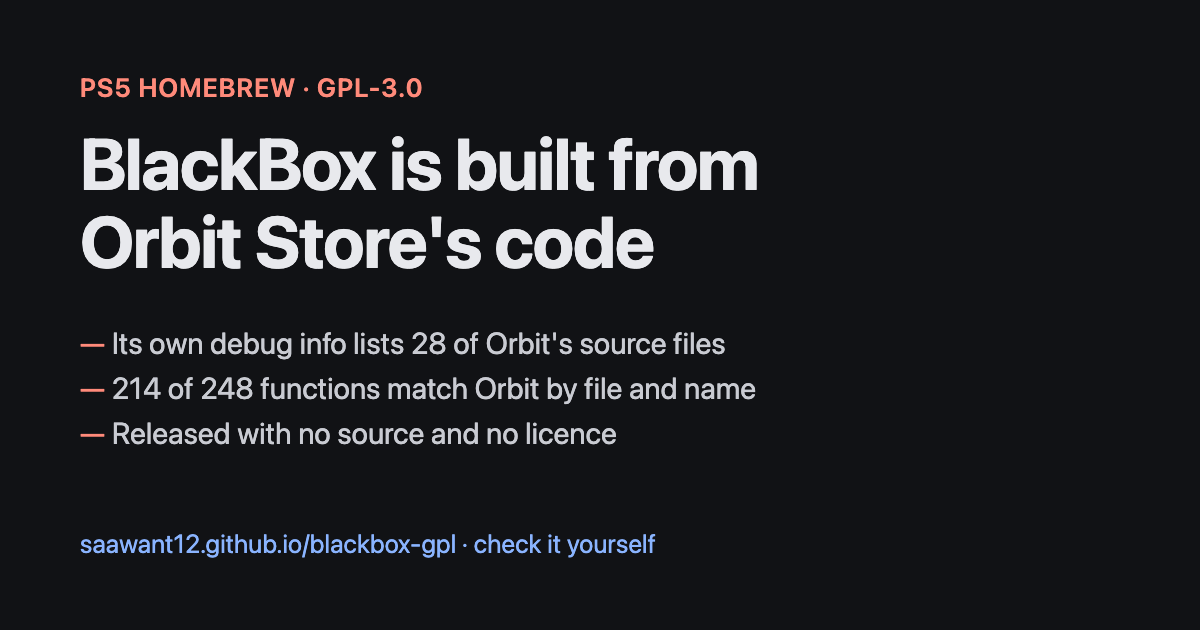
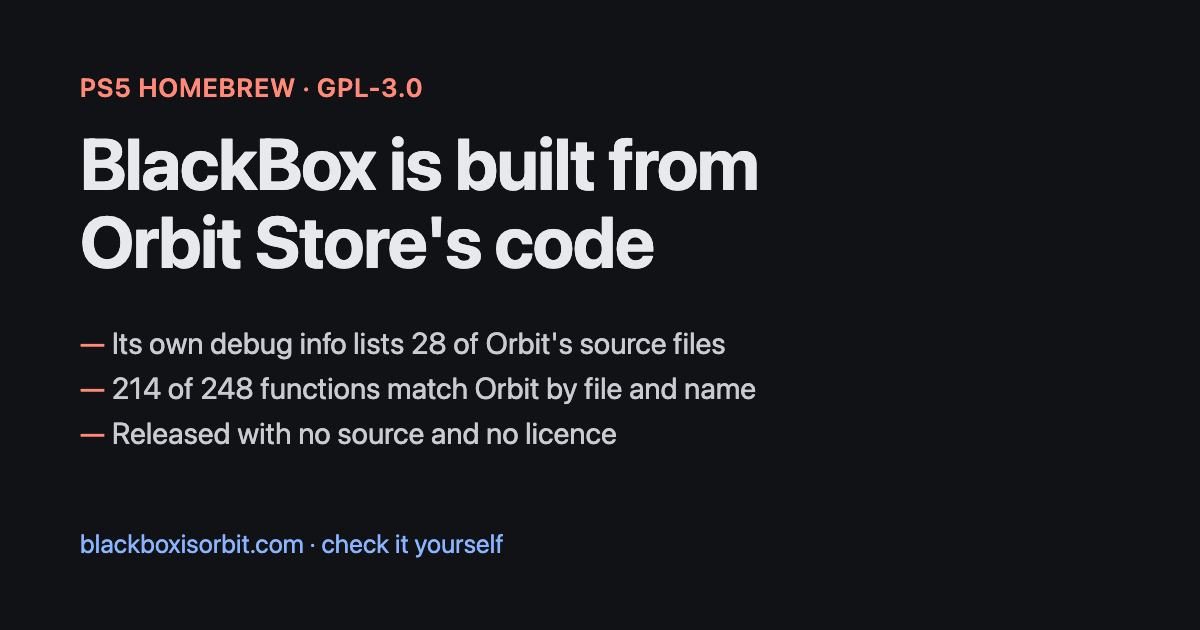
Move the page to its own domain
Adds the CNAME for GitHub Pages and points the canonical link, share
card, structured data, sitemap and llms.txt at the new domain.

Changed region(s): [[0.0617, 0.8444, 0.555, 0.9048]]

diff --git a/index.html b/index.html
@@ -7,7 +7,7 @@
 <meta name="description" content="BlackBox's PS5 payload is compiled from Orbit Store's GPL source code and released without source, licence or credit. Evidence anyone can reproduce from the public release files.">
 <meta name="robots" content="index, follow, max-image-preview:large">
 <meta name="theme-color" content="#111215">
-<link rel="canonical" href="https://saawant12.github.io/blackbox-gpl/">
+<link rel="canonical" href="https://blackboxisorbit.com/">
 <link rel="icon" href="favicon.svg" type="image/svg+xml">
 <link rel="apple-touch-icon" href="apple-touch-icon.png">
 <link rel="sitemap" type="application/xml" href="sitemap.xml">
@@ -16,8 +16,8 @@
 <meta property="og:site_name" content="Orbit Store">
 <meta property="og:title" content="BlackBox is built from Orbit Store's code">
 <meta property="og:description" content="BlackBox's own debug information lists 28 of Orbit Store's source files. It is released without source, licence or credit. Check it yourself.">
-<meta property="og:url" content="https://saawant12.github.io/blackbox-gpl/">
-<meta property="og:image" content="https://saawant12.github.io/blackbox-gpl/social.png">
+<meta property="og:url" content="https://blackboxisorbit.com/">
+<meta property="og:image" content="https://blackboxisorbit.com/social.png">
 <meta property="og:image:width" content="1200">
 <meta property="og:image:height" content="630">
 <meta property="og:image:alt" content="BlackBox is built from Orbit Store's code: its own debug info lists 28 of Orbit's source files, 214 of 248 functions match Orbit by file and name, released with no source and no licence.">
@@ -26,16 +26,16 @@
 <meta name="twitter:card" content="summary_large_image">
 <meta name="twitter:title" content="BlackBox is built from Orbit Store's code">
 <meta name="twitter:description" content="BlackBox's own debug information lists 28 of Orbit Store's source files. It is released without source, licence or credit. Check it yourself.">
-<meta name="twitter:image" content="https://saawant12.github.io/blackbox-gpl/social.png">
+<meta name="twitter:image" content="https://blackboxisorbit.com/social.png">
 <script type="application/ld+json">
 {
   "@context": "https://schema.org",
   "@type": "TechArticle",
   "headline": "BlackBox is built from Orbit Store's code",
   "description": "BlackBox's PS5 payload is compiled from Orbit Store's GPL source code and released without source, licence or credit. Evidence anyone can reproduce from the public release files.",
-  "url": "https://saawant12.github.io/blackbox-gpl/",
-  "mainEntityOfPage": "https://saawant12.github.io/blackbox-gpl/",
-  "image": "https://saawant12.github.io/blackbox-gpl/social.png",
+  "url": "https://blackboxisorbit.com/",
+  "mainEntityOfPage": "https://blackboxisorbit.com/",
+  "image": "https://blackboxisorbit.com/social.png",
   "datePublished": "2026-10-12",
   "dateModified": "2026-10-12",
   "inLanguage": "en",

diff --git a/README.md b/README.md
@@ -1,6 +1,6 @@
 # BlackBox is built from Orbit Store's code
 
-**Read the page: https://saawant12.github.io/blackbox-gpl/**
+**Read the page: https://blackboxisorbit.com/**
 
 BlackBox's PS5 payload is compiled from [Orbit Store](https://github.com/saawant12/orbit-store-ps5)'s GPL source code and released without source, licence or credit. This repository holds the page and everything needed to check it.
 
